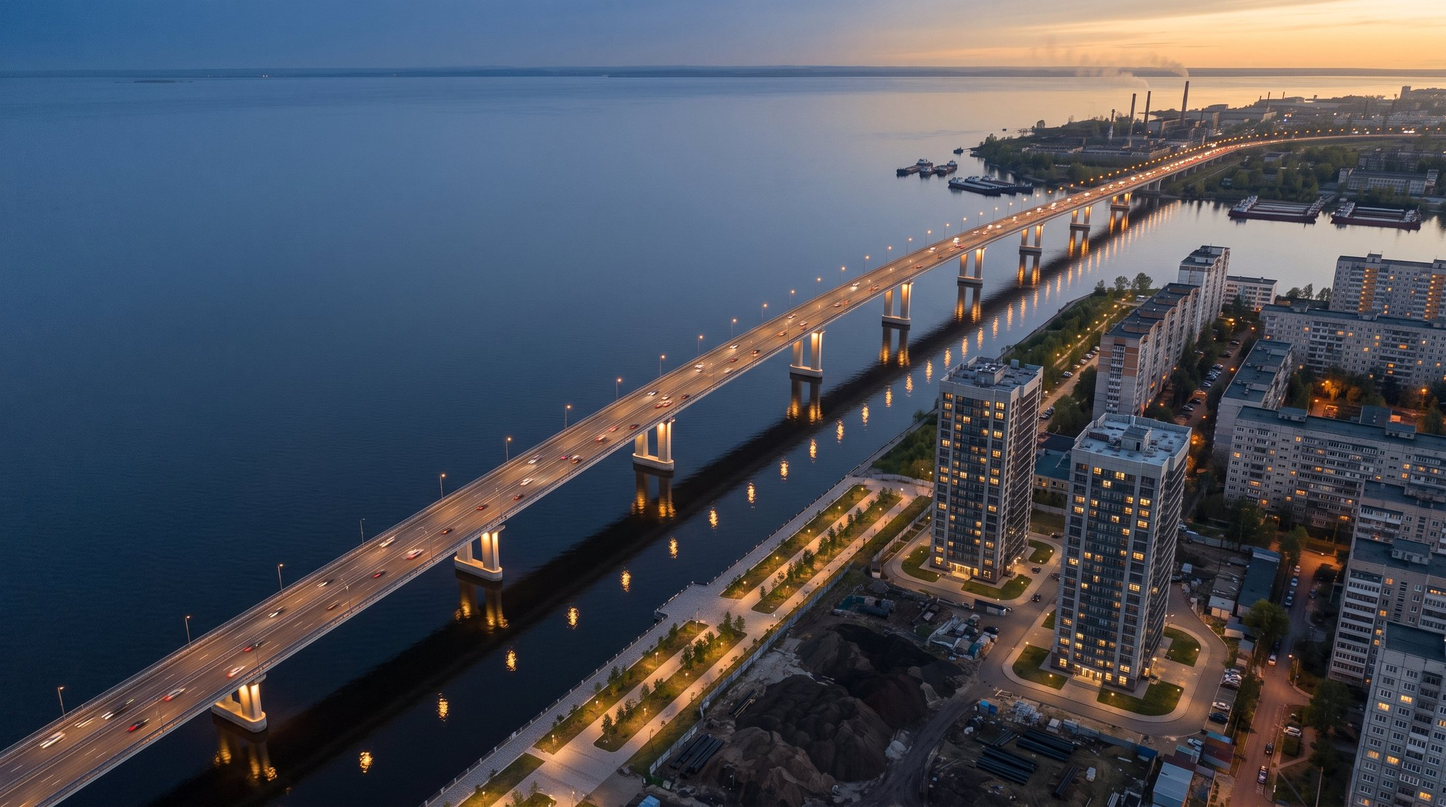
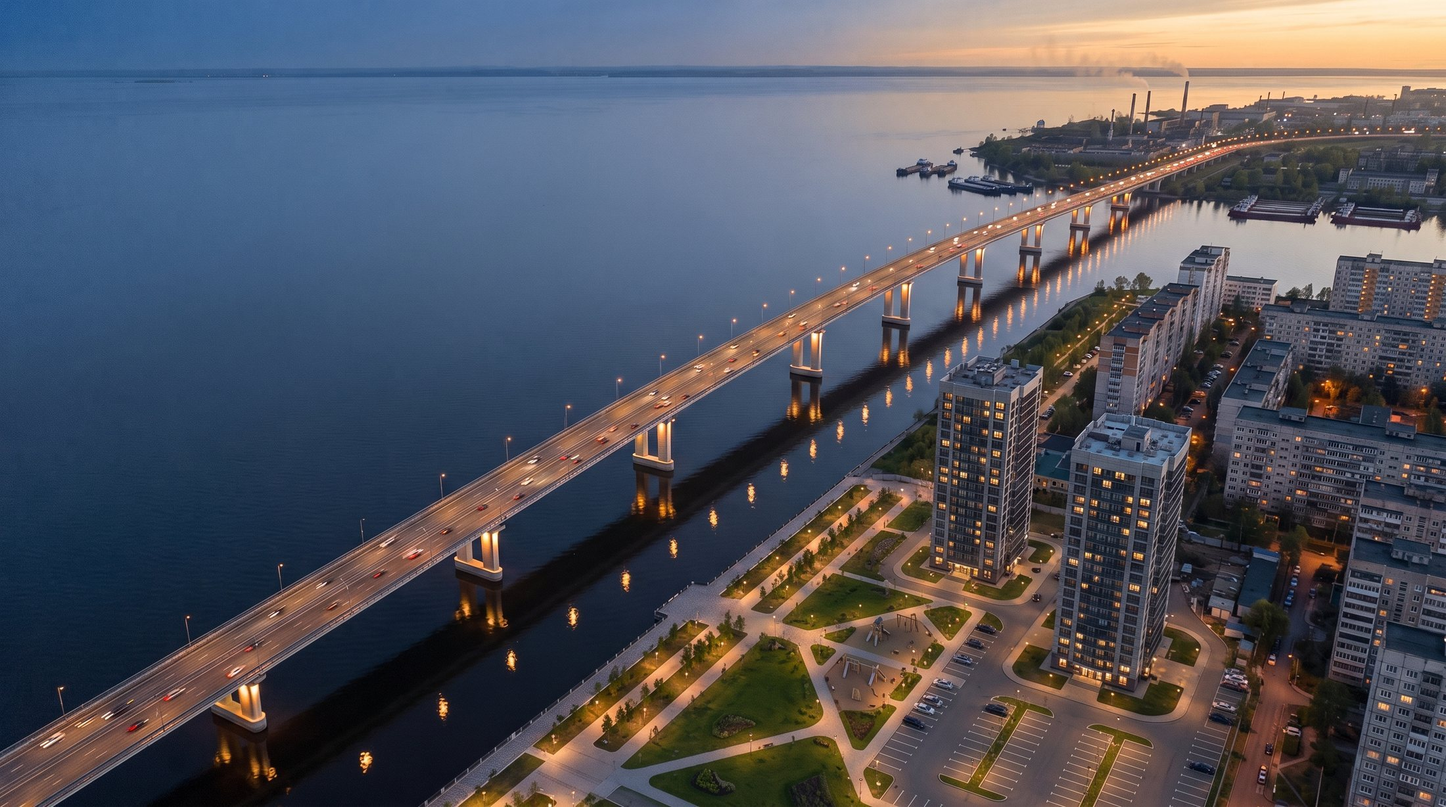
proto(scene): city-and-bridge polish - solid trail, dusk navy palette, finished yard in the 'after' picture, portrait 'before'
Claude-Session: https://claude.ai/code/session_01CQywYWdAphmQCVdF8KogZJ

diff --git a/proto/iskra-2/iskra2.js b/proto/iskra-2/iskra2.js
@@ -64,10 +64,10 @@
     ctx.fillStyle = sc; ctx.fillRect(0, 0, W, H * 0.5);
     /* the spark and its trail */
     if (P < 0.995) {
-      ctx.lineCap = 'round'; ctx.globalCompositeOperation = 'lighter';
-      for (i = 34; i >= 1; i--) {
-        var u1 = P - i * 0.004, u2 = P - (i - 1) * 0.004; if (u1 < 0) continue;
-        var p1 = path(u1), p2 = path(u2), f = 1 - i / 34;
+      ctx.lineCap = 'butt'; ctx.globalCompositeOperation = 'lighter';
+      for (i = 90; i >= 1; i--) {
+        var u1 = P - i * 0.0016, u2 = P - (i - 1) * 0.0016 + 0.0003; if (u1 < 0) continue;
+        var p1 = path(u1), p2 = path(u2), f = 1 - i / 90;
         ctx.strokeStyle = 'rgba(255,' + Math.round(196 + 44 * f) + ',' + Math.round(120 + 110 * f) + ',' + 0.7 * f * f + ')';
         ctx.lineWidth = 1 + 9 * f; ctx.beginPath(); ctx.moveTo(p1[0], p1[1]); ctx.lineTo(p2[0], p2[1]); ctx.stroke();
       }

diff --git a/proto/iskra-2/iskra2.css b/proto/iskra-2/iskra2.css
@@ -1,5 +1,8 @@
 /* Sketch 2: the scene is a fixed canvas behind everything; sections become glass over it. */
-html,body{background:#0b0d12}
+/* the palette follows the scene: dusk navy instead of maroon, warm lamp gold stays as the accent */
+:root{--ink:#0A111E;--ink-2:#121C2E;--ink-3:#1B2942;--on-ink:#F1F3F7;--on-ink-2:#C2CBDA;--line-ink:rgba(200,220,255,.16);
+  --c-ink:#0A111E;--c-ink-2:#131E32;--c-text:#F1F3F7;--c-text-2:#C2CBDA;--c-brass-ink:#0A111E;--c-line:rgba(200,220,255,.16)}
+html,body{background:#0A111E}
 .iskra-bg{position:fixed;inset:0;width:100%;height:100%;z-index:0;display:block;pointer-events:none}
 main,.chrome-foot{position:relative;z-index:1}
 .hero{background:linear-gradient(180deg,rgba(12,12,20,.62),rgba(12,12,20,.18) 70%,rgba(12,12,20,0))}
